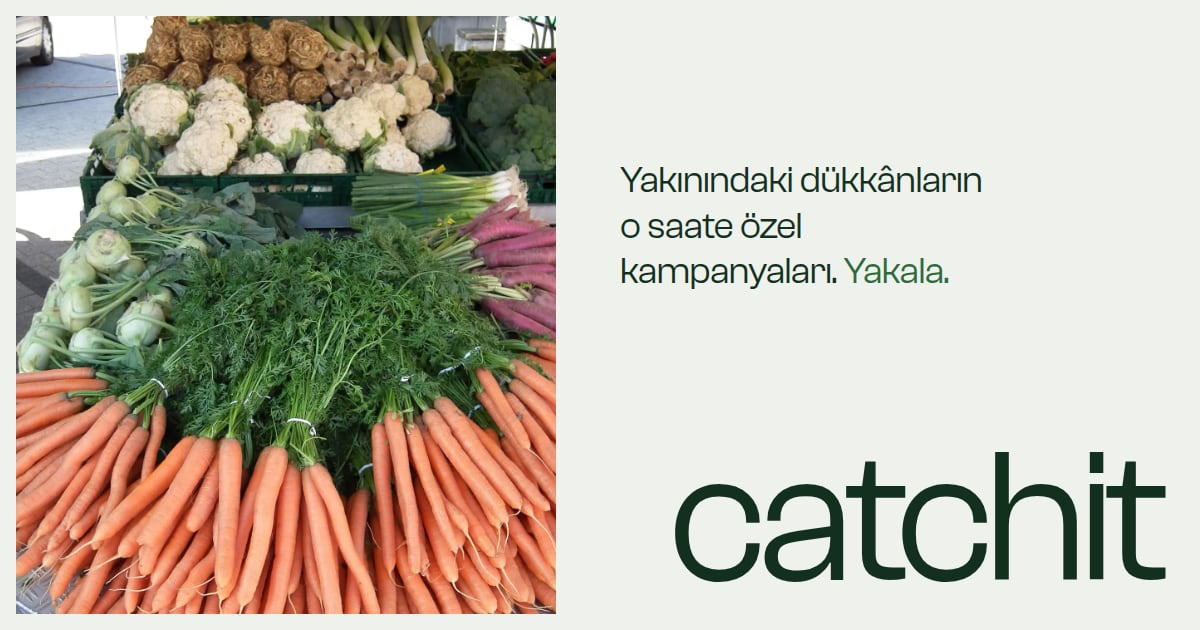
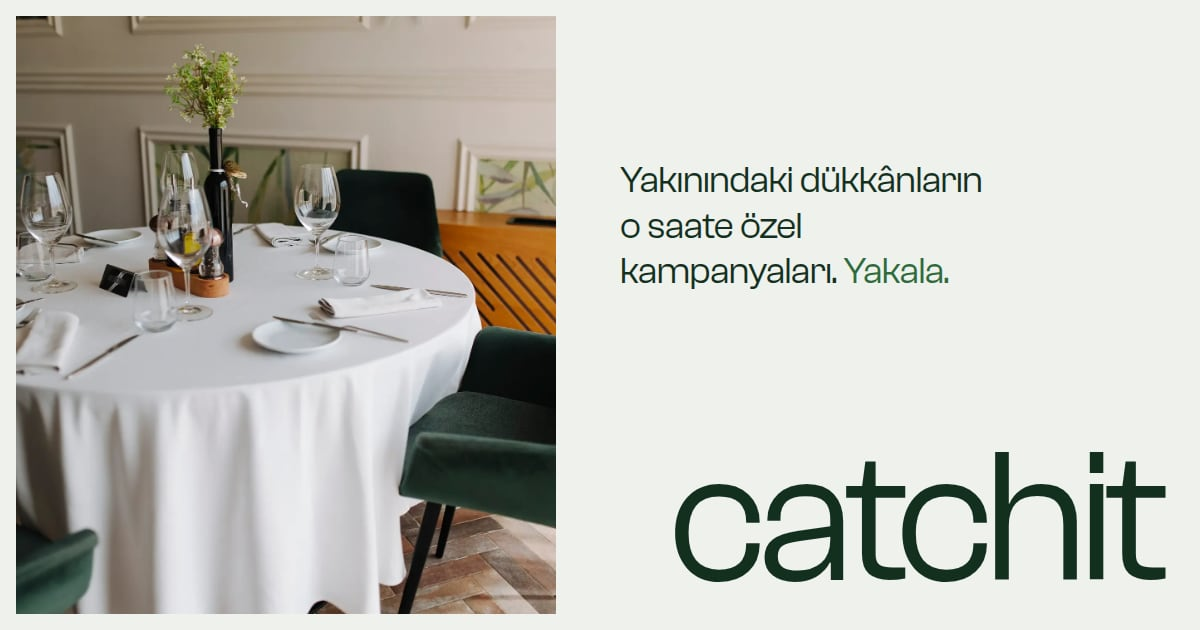
lp2

diff --git a/src/data/home.ts b/src/data/home.ts
@@ -12,8 +12,8 @@ export const home: MarketingPage = {
     statement: 'Yakınındaki dükkânların o saate özel kampanyaları. Yakala, kodu kasada göster.',
     action: { label: 'Uygulamayı indir', href: '#indir' },
     secondary: { label: 'İşletmeler için', href: '/merchants' },
-    photo: 'pazar-sebze',
-    photoAlt: 'Bir hafta pazarında tezgâha dizilmiş havuç demetleri, karnabahar, pırasa ve yeşillikler',
+    photo: 'restoran-masa',
+    photoAlt: 'Botanik desenli duvarın önünde beyaz örtülü, kadehleri ve çiçeğiyle kurulmuş bir restoran masası ve yeşil kadife sandalyeler',
   },
   intro: {
     heading: 'Saat saat değişen fırsatlar',

diff --git a/README.md b/README.md
@@ -52,7 +52,7 @@ Tasarım `.agents/skills/design-taste-frontend` skill'iyle yapıldı. Çekilen y
 
 ### Fotoğraflar
 
-`public/photos/` altındaki fotoğraflar Avrupa şehirlerinden (Karlsruhe, Toulouse, Paris, Monschau, Münster), Wikimedia Commons'tan ticari kullanıma izin veren lisanslarla alındı. Kaynakları `src/data/photos.json` içinde ve her sayfanın footer'ında otomatik olarak gösteriliyor. CatchIt'e ya da bir müşteri işletmeye ait değiller. Gerçek fotoğraflar gelince değiştirin ve `photos.json` dosyasını güncelleyin.
+`public/photos/` altındaki fotoğraflar Avrupa şehirlerinden (Toulouse, Paris, Monschau, Münster), Wikimedia Commons'tan ticari kullanıma izin veren lisanslarla alındı. Kaynakları `src/data/photos.json` içinde ve her sayfanın footer'ında otomatik olarak gösteriliyor. CatchIt'e ya da bir müşteri işletmeye ait değiller. Gerçek fotoğraflar gelince değiştirin ve `photos.json` dosyasını güncelleyin.
 
 ### Örnek içerik
 
